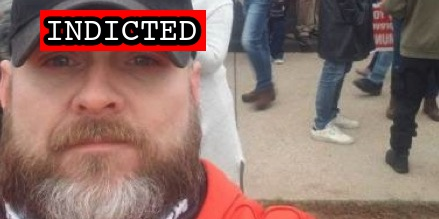
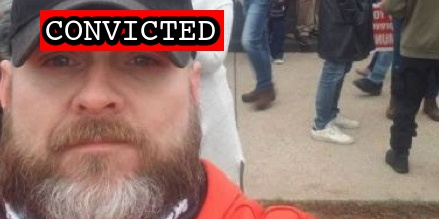
Denney plea

Changed region(s): [[0.0888, 0.0274, 0.533, 0.2466]]

diff --git a/docs/_suspects/lucas-denney.md b/docs/_suspects/lucas-denney.md
@@ -4,15 +4,15 @@ lastName: Denney
 hashtag: PoleTosser
 aka:
 residence: Texas
-status: Indicted
+status: Convicted
 date: 2021-12-07
 charged: 2021-12-07
 indicted: 2022-03-07
-convicted:
+convicted: 2022-03-17
 sentenced:
 dismissed:
 deceased:
-plea_hearing:
+plea_hearing: 2022-03-17
 sentencing:
 age: 44
 occupation:
@@ -34,8 +34,13 @@ published: true
 caseNumber:
 videos:
 charges:
+  - code: 18 USC § 111(a)(1) and (b)
+    title: Assaulting, resisting, or impeding certain officers or employees (using a deadly or dangerous weapon)
+    url: https://www.law.cornell.edu/uscode/text/18/111
+    felony: true
 sentence:
 ---
+
 - [News Report](https://www.dallasnews.com/news/crime/2021/12/14/tarrant-county-men-arrested-after-feds-say-they-fought-with-police-at-capitol-on-jan-6/)
 - [Statement of Facts](https://www.justice.gov/usao-dc/press-release/file/1456571/download)
 - [Indictment](https://extremism.gwu.edu/sites/g/files/zaxdzs2191/f/Lucas%20Denney%20Indictment.pdf)
